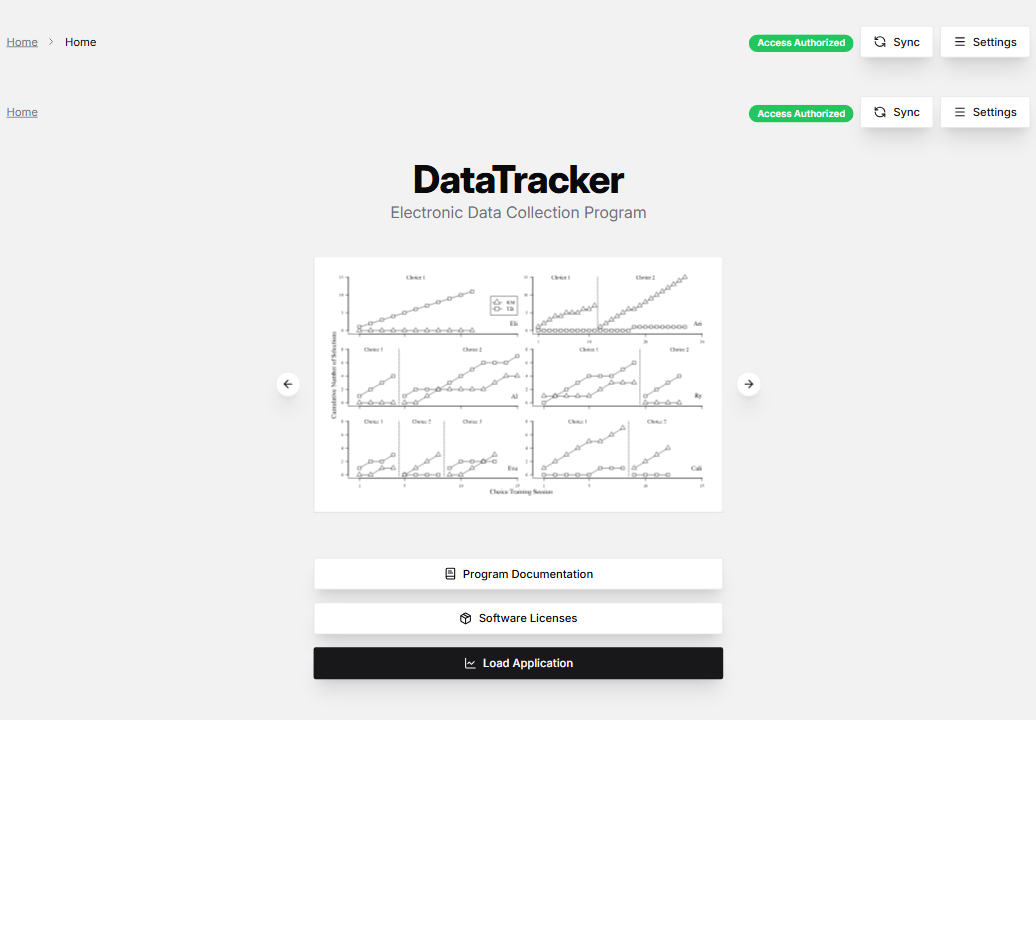
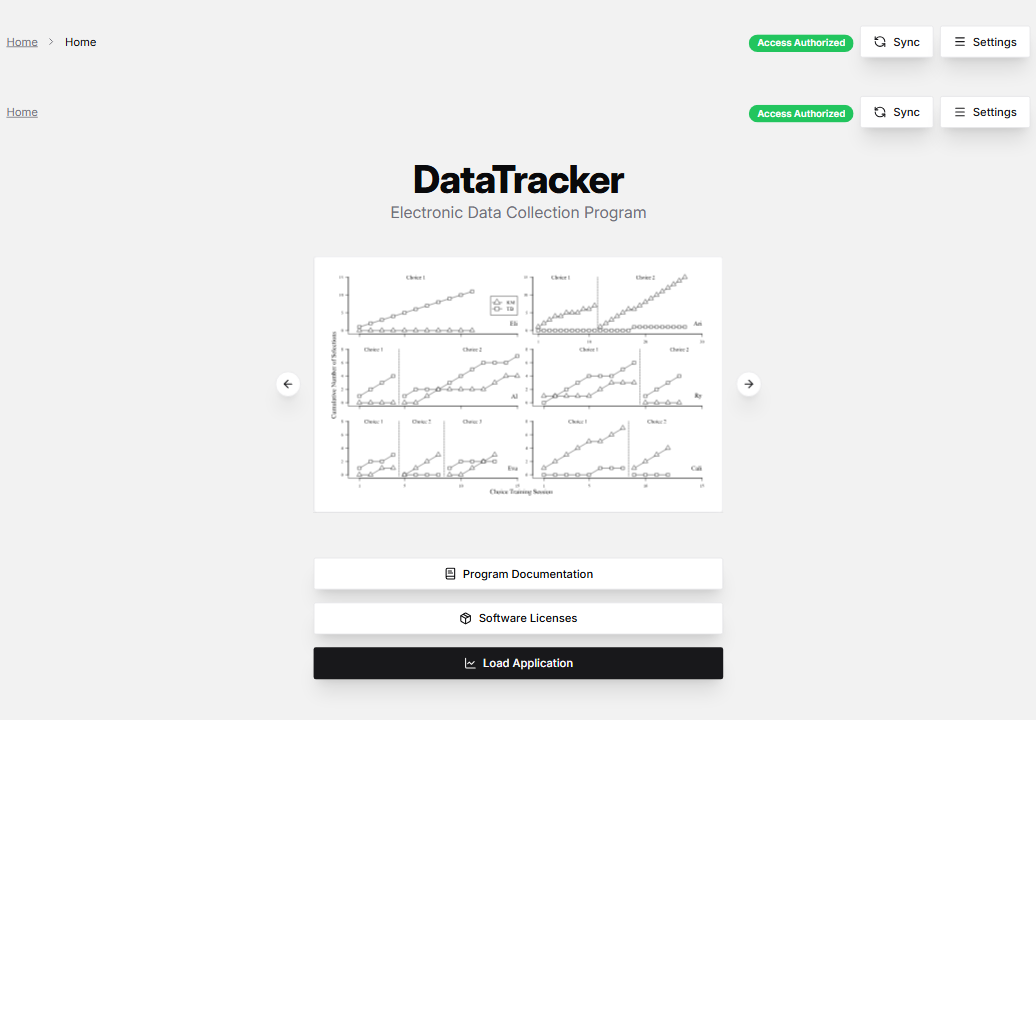
Updates for more portable build

diff --git a/src/components/pages/__tests__/all-pages.spec.tsx b/src/components/pages/__tests__/all-pages.spec.tsx
@@ -262,11 +262,7 @@ describe('HomePage', () => {
         >
           <TooltipProvider>
             <PageWrapper Settings={{ ...DEFAULT_APPLICATION_SETTINGS, EnableFileDeletion: true }} label="Home">
-              <HomePage
-                Settings={{ ...DEFAULT_APPLICATION_SETTINGS, EnableFileDeletion: true }}
-                SaveSettings={() => {}}
-                SetSettings={() => {}}
-              />
+              <HomePage />
             </PageWrapper>
           </TooltipProvider>
         </FolderHandleContext.Provider>
@@ -301,7 +297,7 @@ describe('DocumentationListingPage', () => {
               breadcrumbs={[{ label: 'Documentation', to: '/documentation' }]}
               label="Documentation"
             >
-              <DocumentationListingPage FrontMatter={mockFrontMatter} KeywordArray={mockKeywordArray} />
+              <DocumentationListingPage />
             </PageWrapper>
           </TooltipProvider>
         </FolderHandleContext.Provider>
@@ -330,13 +326,7 @@ describe('DocumentationEntryPage', () => {
           }}
         >
           <TooltipProvider>
-            <DocumentationEntryPage
-              Entry={mockEntry}
-              KeywordArray={mockKeywordArray}
-              PreviousEntry={undefined}
-              NextEntry={mockFrontMatter[1]}
-              Settings={DEFAULT_APPLICATION_SETTINGS}
-            />
+            <DocumentationEntryPage />
           </TooltipProvider>
         </FolderHandleContext.Provider>
       </ThemeProvider>,
@@ -1304,6 +1294,7 @@ describe('ResultsRateVisualsPage', () => {
                 Group="Evaluation Study"
                 Individual="Participant 001"
                 Evaluation="Demand Treatment Evaluation"
+                Conditions={['Baseline', 'Intervention']}
                 Handle={mockHandle}
                 Results={demandTreatmentSessions}
                 ResultsFiltered={demandTreatmentSessions}
@@ -1356,6 +1347,7 @@ describe('ResultsProportionVisualsPage', () => {
                 Group="Evaluation Study"
                 Individual="Participant 001"
                 Evaluation="Demand Treatment Evaluation"
+                Conditions={['Baseline', 'Intervention']}
                 Results={demandTreatmentSessions}
                 ResultsFiltered={demandTreatmentSessions}
                 DynamicKeySet={demandTreatmentKeyset}

diff --git a/src/lib/__tests__/shared-buffer.test.ts b/src/lib/__tests__/shared-buffer.test.ts
@@ -41,7 +41,7 @@ describe('shared-buffer.ts', () => {
     (global as any).Atomics = undefined;
     (global as any).self = { crossOriginIsolated: false };
     (global as any).navigator = { userAgent: 'Test Browser' };
-    (global as any).window = { isSecureContext: true };
+    (global as any).window = { isSecureContext: true, location: { protocol: 'https:' } };
 
     // Mock import.meta.env
     vi.stubGlobal('import.meta', { env: { DEV: false } });
@@ -274,6 +274,19 @@ describe('shared-buffer.ts', () => {
 
       expect(result).toBe(false);
       expect(mockConsole.warn).toHaveBeenCalled();
+    });
+
+    it('should return false and suppress warnings when loaded from file:// origin', () => {
+      (global as any).window = { isSecureContext: true, location: { protocol: 'file:' } };
+      (global as any).SharedArrayBuffer = class MockSharedArrayBuffer {};
+      (global as any).Atomics = { load: vi.fn() };
+      (global as any).self = { crossOriginIsolated: false };
+
+      const result = initializeSharedArrayBufferSupport();
+
+      expect(result).toBe(false);
+      expect(mockConsole.warn).not.toHaveBeenCalled();
+      expect(mockConsole.group).not.toHaveBeenCalled();
     });
   });
 

diff --git a/scripts/plugins/delete-unnecessary-files.ts b/scripts/plugins/delete-unnecessary-files.ts
@@ -8,7 +8,6 @@ import { ISLAND_OUT_DIR } from '../../vite.config';
 export const deleteUnnecessaryPlugin: PluginOption = {
   name: 'delete-unnecessary',
   async writeBundle() {
-    await fs.rm(`${ISLAND_OUT_DIR}/screenshots`, { recursive: true });
     await fs.rm(`${ISLAND_OUT_DIR}/manifest.json`);
     await fs.rm(`${ISLAND_OUT_DIR}/robots.txt`);
 

diff --git a/README.md b/README.md
@@ -1,4 +1,4 @@
-![Static Badge Lines](<https://img.shields.io/badge/Coverage_(Lines)-97.36_Percent-green>) ![Static Badge Branches](<https://img.shields.io/badge/Coverage_(Branches)-94.92_Percent-green>) ![Static Badge Functions](<https://img.shields.io/badge/Coverage_(Functions)-98.17_Percent-green>)
+![Static Badge Lines](<https://img.shields.io/badge/Coverage_(Lines)-97.35_Percent-green>) ![Static Badge Branches](<https://img.shields.io/badge/Coverage_(Branches)-94.84_Percent-green>) ![Static Badge Functions](<https://img.shields.io/badge/Coverage_(Functions)-98.10_Percent-green>)
 
 ![Static Badge Version](https://img.shields.io/badge/Version-0.5.8-blue) ![Static Badge License](https://img.shields.io/badge/License-Apache_2.0-purple)
 